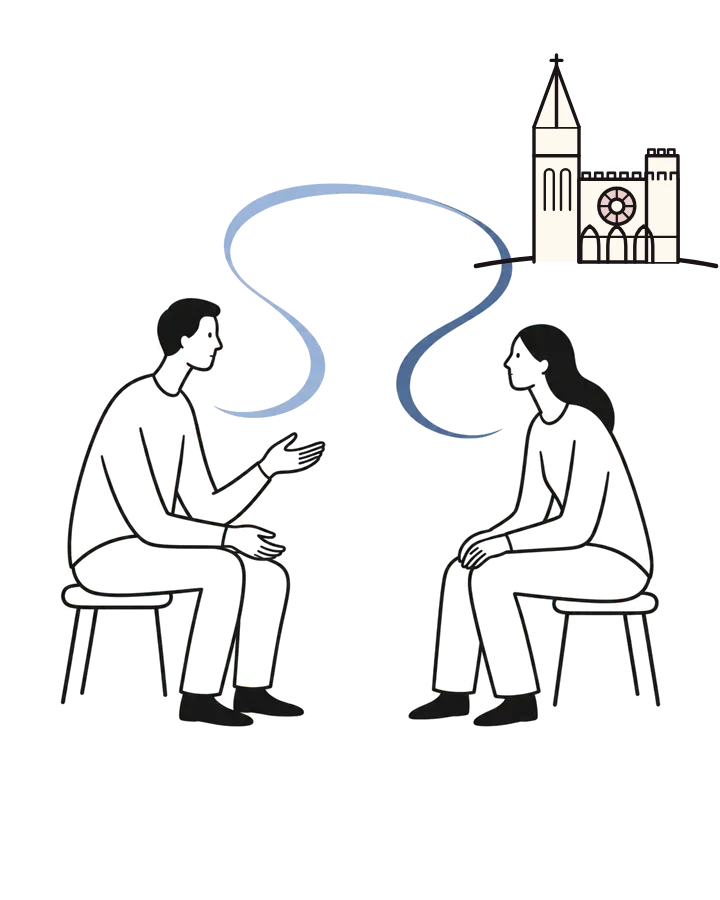
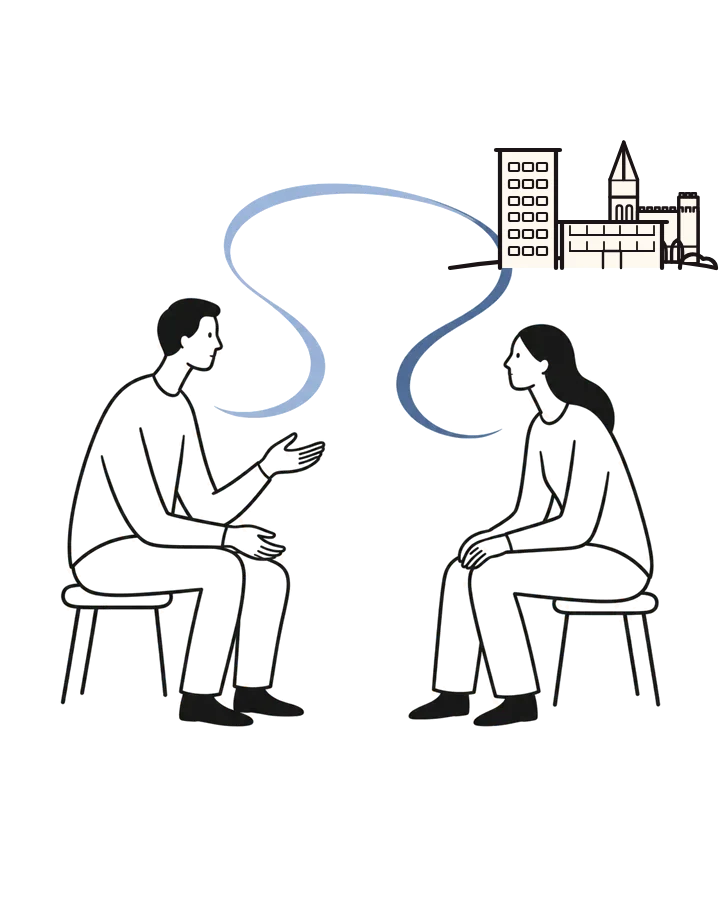
Nouvelle accroche, illustrations de campus et infos pratiques
Claude-Session: https://claude.ai/code/session_013DnL3eviJL9tU8AAhPtCrd

Changed region(s): [[0.6111, 0.0622, 1.0, 0.3111]]

diff --git a/index.html b/index.html
@@ -269,7 +269,7 @@ footer .brand { color: var(--ink); }
     <div class="hero">
       <div>
         <p class="kicker">UFR de psychologie · Université Paris 8</p>
-        <h1>Parler à quelqu'un, <span>c'est gratuit.</span></h1>
+        <h1>Un temps pour vous, <span>entre deux cours.</span></h1>
         <p class="lead"><b>Des étudiant·es de M2 de psychologie</b> proposent des consultations psychologiques gratuites aux étudiant·es.</p>
         <div class="actions">
           <a class="btn" href="#rdv">Prendre rendez-vous</a>
